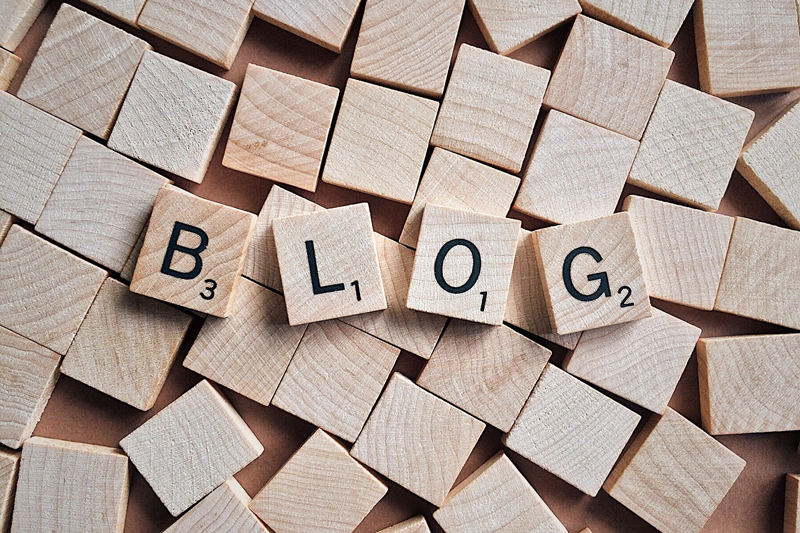
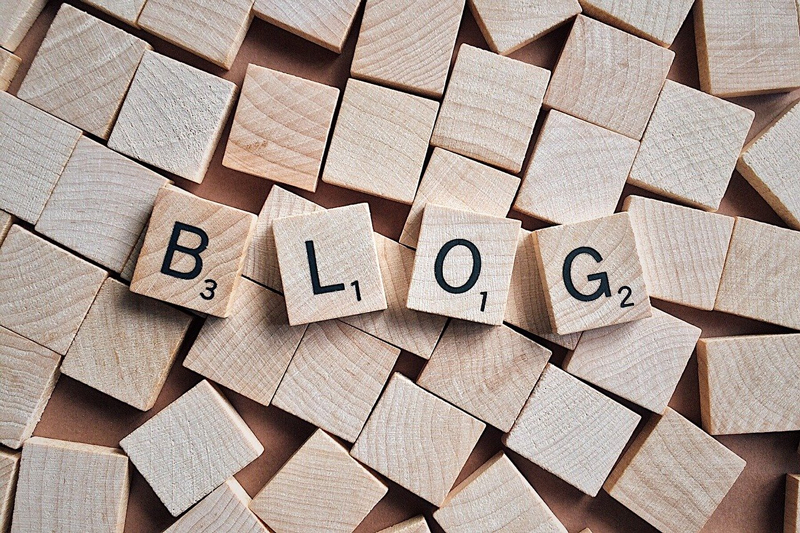
teaser 이미지 출처 표기 추가

diff --git a/_posts/2020-04-11-making-jekyll-theme.md b/_posts/2020-04-11-making-jekyll-theme.md
@@ -4,8 +4,10 @@ comments: true
 title: "Jekyll 테마 제작 시작하다"
 excerpt: "재밌는 개인 프로젝트~"
 header:
-  overlay_image: /assets/images/thumb/blog_thumb03.jpg
+  overlay_image: /assets/images/thumb/blog_thumb01.jpg
   overlay_filter: 0.5
+  image_link: https://pixabay.com/ko/photos/%EB%B8%94%EB%A1%9C%EA%B7%B8-%EC%9D%B8%ED%84%B0%EB%84%B7-%EC%9B%B9-%EA%B8%B0%EC%88%A0-2355684/
+  image_author: Wokandapix
 date: 2020-04-11 19:42
 categories:
     - 퍼블노트

diff --git a/_posts/2020-06-24-made-jekyll-theme.md b/_posts/2020-06-24-made-jekyll-theme.md
@@ -6,6 +6,8 @@ excerpt: ""
 header:
   overlay_image: /assets/images/thumb/blog_thumb01.jpg
   overlay_filter: 0.5
+  image_link: https://pixabay.com/ko/photos/%EB%B8%94%EB%A1%9C%EA%B7%B8-%EC%9D%B8%ED%84%B0%EB%84%B7-%EC%9B%B9-%EA%B8%B0%EC%88%A0-2355684/
+  image_author: Wokandapix
 date: 2020-06-24 22:58
 categories:
     - 퍼블노트
